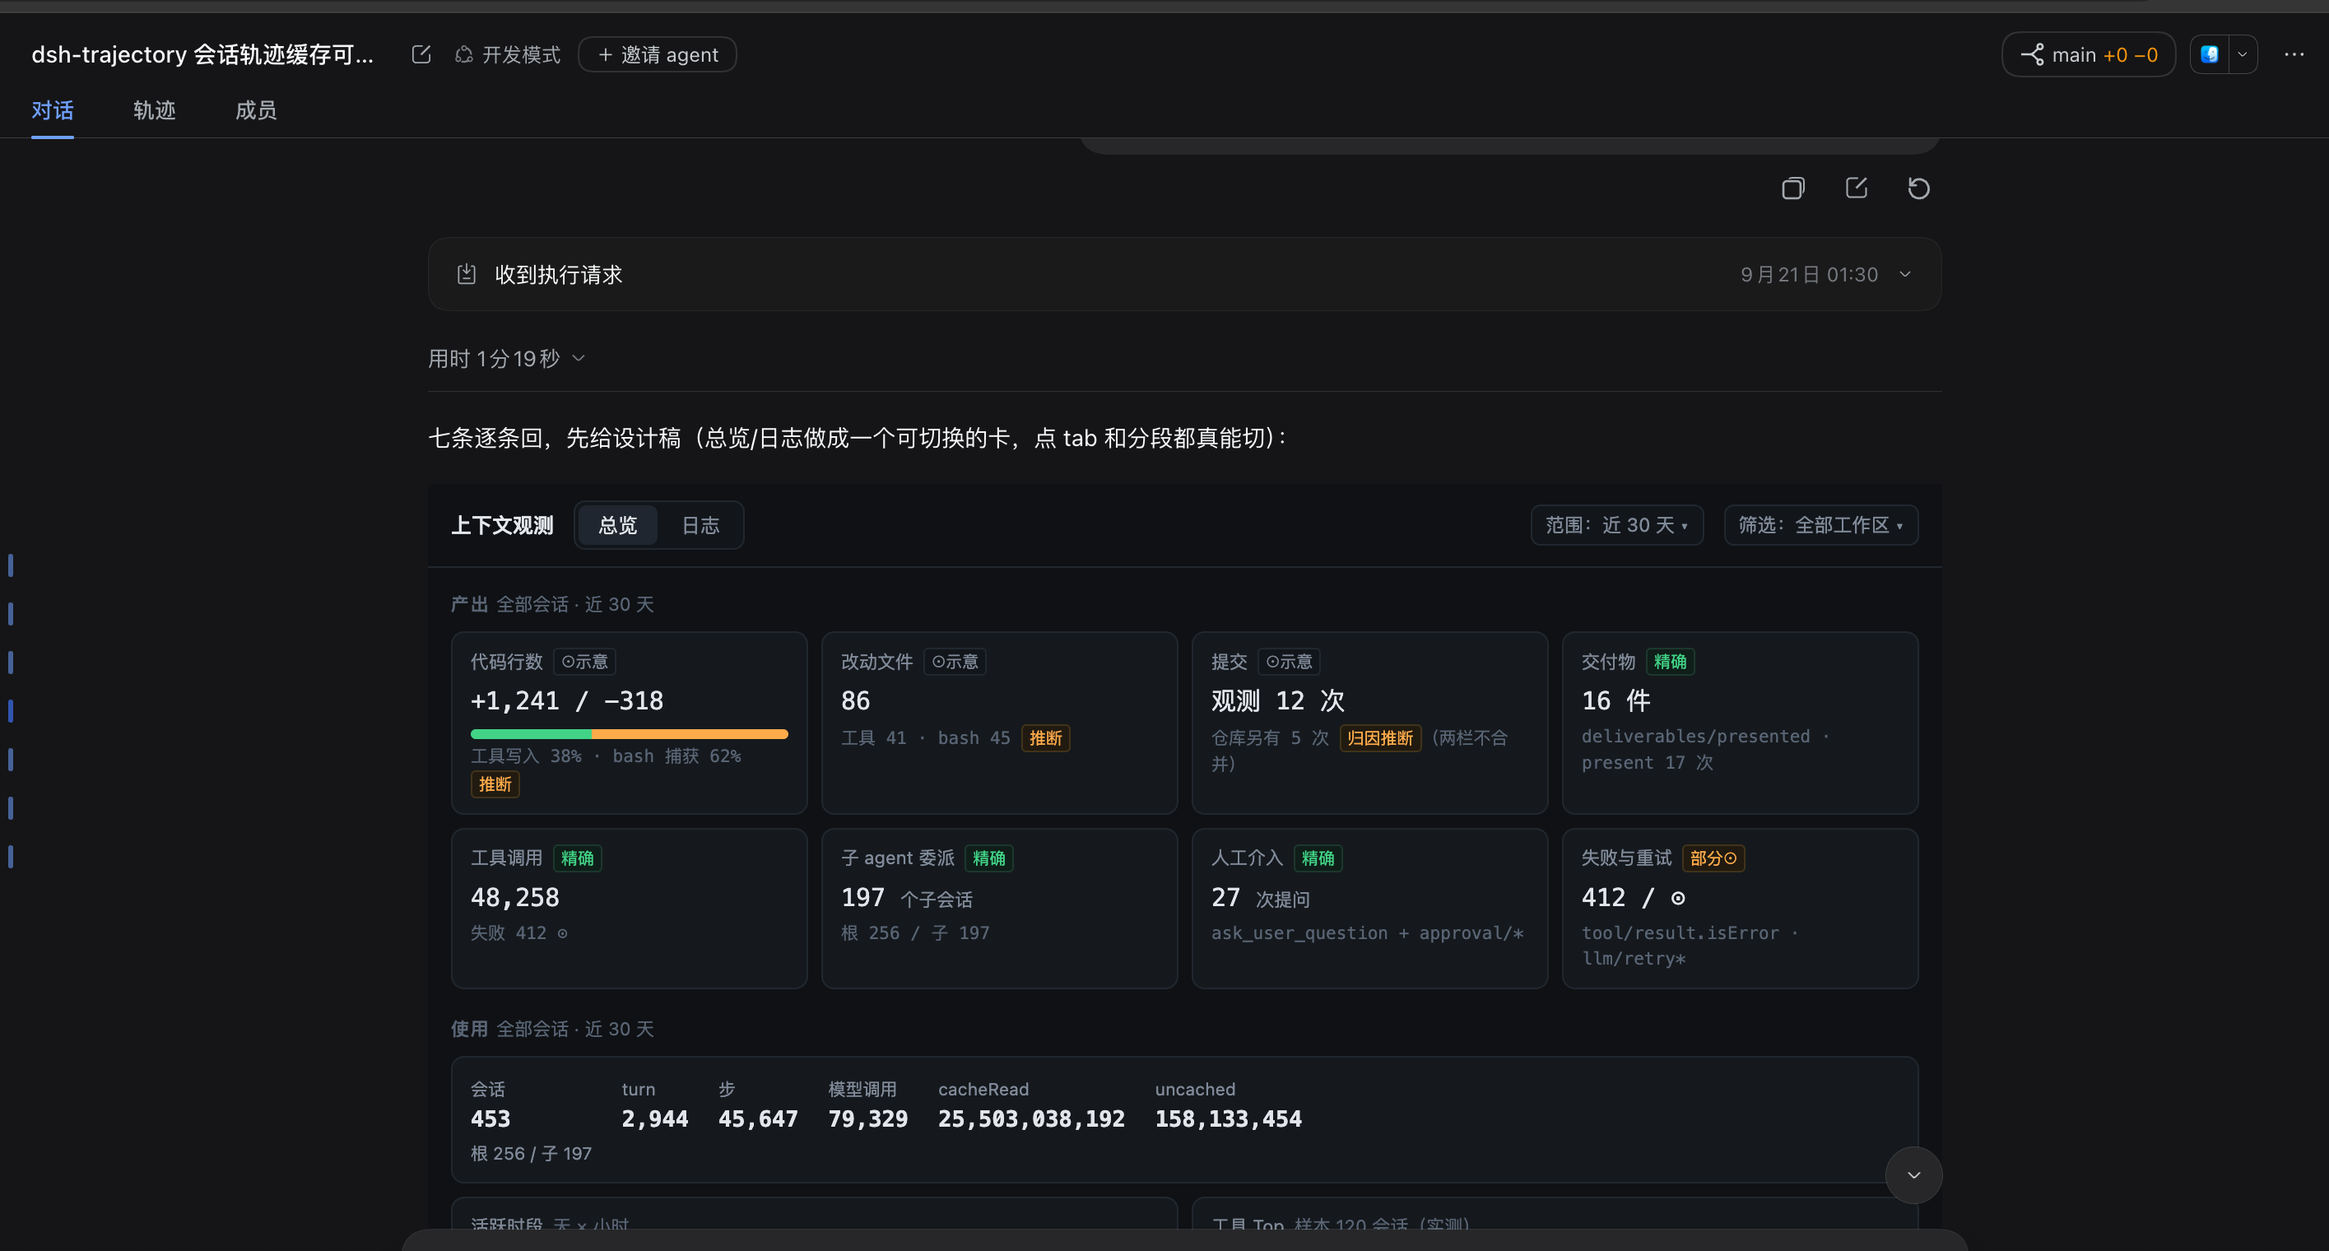
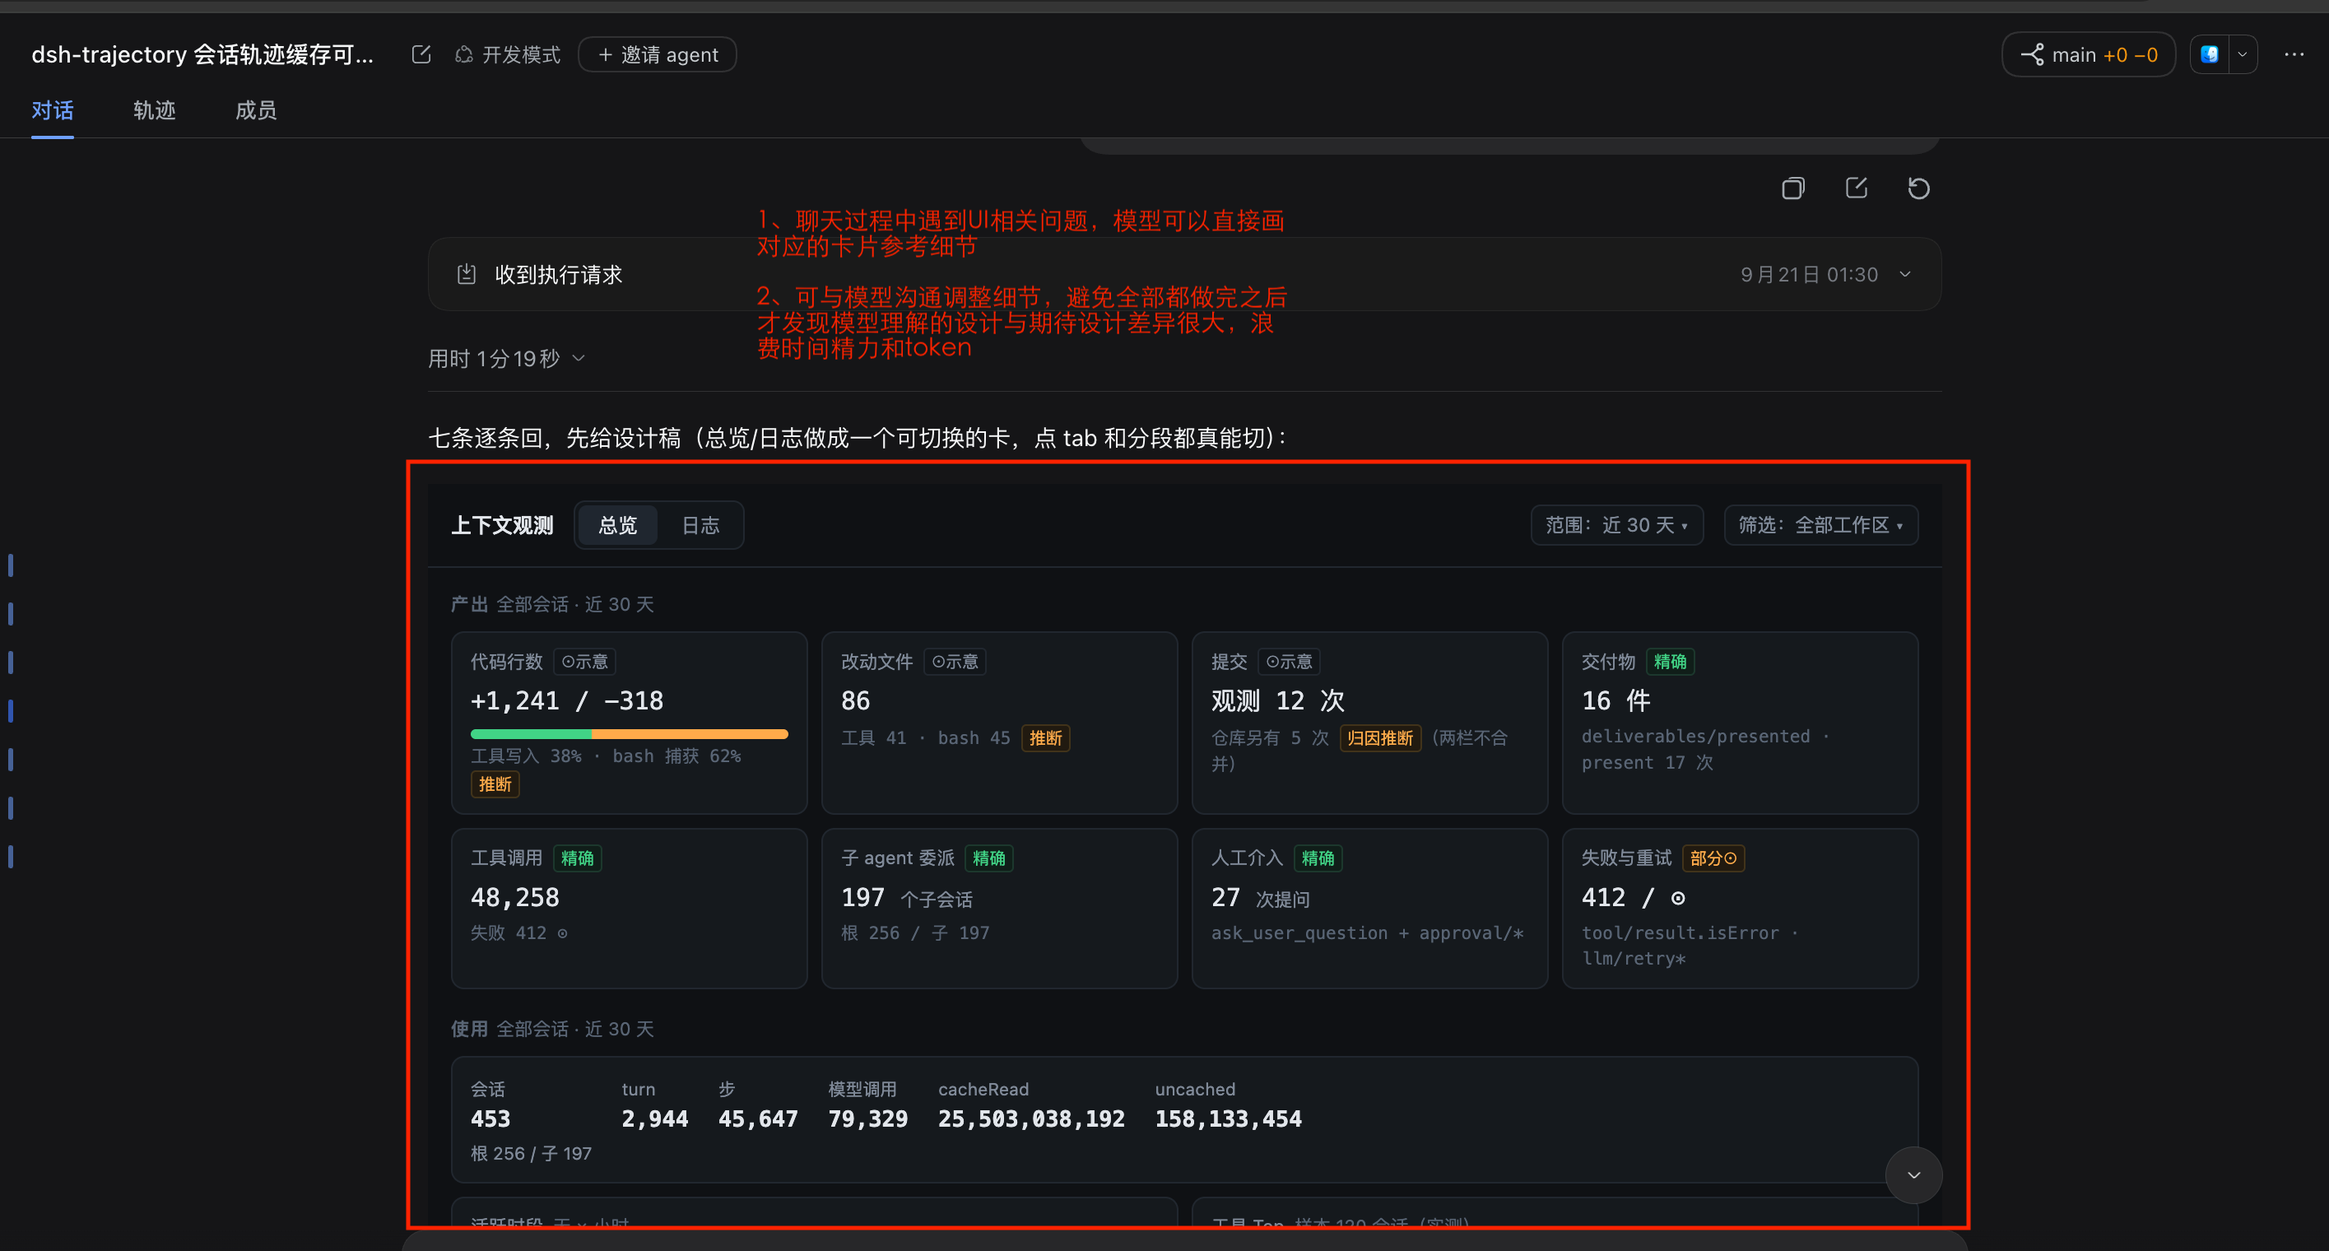
docs(basic): per-plugin compat tables, bundle-conversation-toolbox showcase, drop hero image; refreshed inline-html-render shot

Changed region(s): [[0.311, 0.1546, 0.5597, 0.3092], [0.1866, 0.9586, 0.8396, 0.9895], [0.1866, 0.3401, 0.8396, 0.3711]]

diff --git a/profiles/basic/README.en.md b/profiles/basic/README.en.md
@@ -4,9 +4,7 @@
 
 **A set of everyday, high-frequency experience plugins that make your DSH nicer — and freer.** Edit or withdraw messages you already sent; rename a session title in one click; background jobs at a glance and stoppable at will; a context-compaction reminder you configure yourself; mid-chat, have the agent sketch a preview card so you agree on the UI before it builds — no more rework loops; manage every skill and tool freely and assign them to different presets; a chime when a task completes; mobile access in a snap; safe restarts for plugin development — never again fear the little whale taking itself down…… The quality-of-life layer most users want first, installed in one go.
 
-<img src="docs/screenshots/file-preview1.png" width="840" alt="dsh-basic at a glance: the session Artifacts tab and the file-preview drawer">
-
-Every member is an independent plugin — copy its package name into the host's "Add plugin" dialog (0.1.7-rc.2+: Settings → Plugins) and install freely. If the official host later opens up custom-profile installation, this repo will support one-command install. The everyday conversation plugins also come as a meta package: `@khorsheed/dsh-bundle-conversation-toolbox` installs seven at once (message-tools / message-timeline / session-title-edit / quote / inline-html-render / context-guard / taskpilot).
+Every member is an independent plugin — copy its package name into the host's "Add plugin" dialog (0.1.7-rc.2+: Settings → Plugins) and install freely. If the official host later opens up custom-profile installation, this repo will support one-command install. The everyday conversation plugins also come as a meta package — `@khorsheed/dsh-bundle-conversation-toolbox` installs seven at once (see the end of [The tour](#the-tour)).
 
 ## The dsh-basic pack — plugin list
 
@@ -43,7 +41,11 @@ Members iterate fast and older release lines get no updates — pick the line by
 
 ### message-tools — edit, withdraw, restore
 
-`@khorsheed/dsh-client-message-tools` · host ≥ `0.1.5-rc.1` (older hosts: `@^0.2.0` on the 0.1.2 line, `@^0.1.0` on 0.1.x)
+| Host version | Install spec (copy into the dialog) |
+|---|---|
+| ≥ `0.1.5-rc.1` | `@khorsheed/dsh-client-message-tools` |
+| `0.1.2` ~ `0.1.4` | `@khorsheed/dsh-client-message-tools@^0.2.0` |
+| `0.1.x` | `@khorsheed/dsh-client-message-tools@^0.1.0` |
 
 Every user message carries a copy/edit/withdraw action row. Edits replace in place and re-send as a new message; a withdraw is real — the message and everything after it leaves the model's context, folding into an expandable divider with the original text refilled into your draft; one click restores them to the end of the conversation. No official package is touched.
 
@@ -64,7 +66,10 @@ Every user message carries a copy/edit/withdraw action row. Edits replace in pla
 
 ### message-timeline — history at a glance
 
-`@khorsheed/dsh-message-timeline` · host ≥ `0.1.2-rc.1` (`@^0.1.0` line on 0.1.x hosts)
+| Host version | Install spec (copy into the dialog) |
+|---|---|
+| ≥ `0.1.2-rc.1` | `@khorsheed/dsh-message-timeline` |
+| `0.1.x` | `@khorsheed/dsh-message-timeline@^0.1.0` |
 
 A floating timeline along the chat's left edge, one row per user message. At rest it is a thin rail out of sight; hover to expand a preview, click to scroll straight to that message. Follows your reading position and pages older history at the top. A pure read of the session snapshot — zero model impact.
 
@@ -79,7 +84,10 @@ A floating timeline along the chat's left edge, one row per user message. At res
 
 ### session-title-edit — rename inline
 
-`@khorsheed/dsh-client-session-title-edit` · host ≥ `0.1.2-rc.1` (`@^0.1.0` line on 0.1.x hosts)
+| Host version | Install spec (copy into the dialog) |
+|---|---|
+| ≥ `0.1.2-rc.1` | `@khorsheed/dsh-client-session-title-edit` |
+| `0.1.x` | `@khorsheed/dsh-client-session-title-edit@^0.1.0` |
 
 Click the pencil beside the title in the chat header and the title itself becomes an input — Enter saves, Escape cancels. A user-set title is pinned and never overwritten by auto-generation. Rides the official rename channel; the model never notices.
 
@@ -94,7 +102,10 @@ Click the pencil beside the title in the chat header and the title itself become
 
 ### quote — quote anything
 
-`@khorsheed/dsh-quote` · host ≥ `0.1.5-rc.1` (no release for older hosts)
+| Host version | Install spec (copy into the dialog) |
+|---|---|
+| ≥ `0.1.5-rc.1` | `@khorsheed/dsh-quote` |
+| earlier | no release available |
 
 Select any text and a floating action menu appears — quote into the current session (lands in the composer), quote into a side chat, or copy. Other plugins can register their own action rows into the same menu.
 
@@ -109,7 +120,11 @@ Select any text and a floating action menu appears — quote into the current se
 
 ### file-preview + ui-file-preview — session artifacts
 
-`@khorsheed/dsh-file-preview` + `@khorsheed/dsh-client-ui-file-preview` · host ≥ `0.1.5-rc.1` (older hosts: `@^0.2.0` on the 0.1.2 line, `@^0.1.0` on 0.1.x) · installed as a pair
+| Host version | Install specs (copy into the dialog; install the pair) |
+|---|---|
+| ≥ `0.1.5-rc.1` | `@khorsheed/dsh-file-preview` + `@khorsheed/dsh-client-ui-file-preview` |
+| `0.1.2` ~ `0.1.4` | `@khorsheed/dsh-file-preview@^0.2.0` + `@khorsheed/dsh-client-ui-file-preview@^0.2.0` |
+| `0.1.x` | `@khorsheed/dsh-file-preview@^0.1.0` + `@khorsheed/dsh-client-ui-file-preview@^0.1.0` |
 
 The Produced tab lists every file the session wrote or edited (most recent first); select one to preview its current content in-page, or step through every write/edit diff with content search.
 
@@ -126,7 +141,11 @@ The Produced tab lists every file the session wrote or edited (most recent first
 
 ### taskpilot — pills for background work
 
-`@khorsheed/dsh-taskpilot` · host ≥ `0.1.5-rc.1` (older hosts: `@^0.2.0` on the 0.1.2 line, `@^0.1.0` on 0.1.x)
+| Host version | Install spec (copy into the dialog) |
+|---|---|
+| ≥ `0.1.5-rc.1` | `@khorsheed/dsh-taskpilot` |
+| `0.1.2` ~ `0.1.4` | `@khorsheed/dsh-taskpilot@^0.2.0` |
+| `0.1.x` | `@khorsheed/dsh-taskpilot@^0.1.0` |
 
 Two pills above the composer — background jobs and sub-agents — each appearing only when there is something to show. Running jobs tick every second with a stop button; sub-agents show the full lineage with token cost and can be interrupted; click a row for the detail drawer with a replayed execution trace. All data comes from mirrors the product already keeps — zero model impact.
 
@@ -141,7 +160,10 @@ Two pills above the composer — background jobs and sub-agents — each appeari
 
 ### context-guard — compact before you run out
 
-`@khorsheed/dsh-context-guard` · host ≥ `0.1.2-rc.1` (`@^0.1.0` line on 0.1.x hosts)
+| Host version | Install spec (copy into the dialog) |
+|---|---|
+| ≥ `0.1.2-rc.1` | `@khorsheed/dsh-context-guard` |
+| `0.1.x` | `@khorsheed/dsh-context-guard@^0.1.0` |
 
 When context occupancy crosses your configured ratio, a compact button appears in the composer toolbar — one click runs the official /compact, before overflow starts rejecting requests. Tune the ratio to your taste (0.01–1); lower means earlier.
 
@@ -156,9 +178,12 @@ When context occupancy crosses your configured ratio, a compact button appears i
 
 ### inline-html-render — inline HTML cards
 
-`@khorsheed/dsh-inline-html-render` · host ≥ `0.1.2-rc.1` (no release for 0.1.x hosts)
+| Host version | Install spec (copy into the dialog) |
+|---|---|
+| ≥ `0.1.2-rc.1` | `@khorsheed/dsh-inline-html-render` |
+| earlier | no release available |
 
-A ```` ```dsh-card ```` HTML block in the agent's reply renders as a sandboxed interactive card right in the conversation — charts, little tools, and visualizations you can play with instead of copying elsewhere. Sandboxed and isolated; animations settle down under `prefers-reduced-motion`.
+A ```` ```dsh-card ```` HTML block in the agent's reply renders as a sandboxed interactive card right in the conversation — sketch the UI first, agree on the details, then build it, instead of discovering the mismatch after everything is done. Sandboxed and isolated; animations settle down under `prefers-reduced-motion`.
 
 <details>
 <summary>View the screenshots (1)</summary>
@@ -169,7 +194,10 @@ A ```` ```dsh-card ```` HTML block in the agent's reply renders as a sandboxed i
 
 ### capability-catalog — the capability catalog
 
-`@khorsheed/dsh-capability-catalog` · host ≥ `0.1.5-rc.1` (no release for older hosts)
+| Host version | Install spec (copy into the dialog) |
+|---|---|
+| ≥ `0.1.5-rc.1` | `@khorsheed/dsh-capability-catalog` |
+| earlier | no release available |
 
 A new Tools & Skills entry in settings: every skill and tool in the running instance, each labeled with its registration channel (official built-in / project / user / plugin); a three-column card grid, a detail modal with the full SKILL.md, metadata and credential config, and an add-skill modal that installs from an uploaded zip or a pasted SKILL.md.
 
@@ -186,7 +214,10 @@ A new Tools & Skills entry in settings: every skill and tool in the running inst
 
 ### ui-shortcuts — rebindable keys
 
-`@khorsheed/dsh-ui-shortcuts` · host ≥ `0.1.2-rc.1` (`@^0.1.0` line on 0.1.x hosts)
+| Host version | Install spec (copy into the dialog) |
+|---|---|
+| ≥ `0.1.2-rc.1` | `@khorsheed/dsh-ui-shortcuts` |
+| `0.1.x` | `@khorsheed/dsh-ui-shortcuts@^0.1.0` |
 
 Esc pauses the current task, Ctrl/Cmd+S steer-sends your draft, Ctrl/Cmd+O starts a new session. Click a keycap in settings to rebind; preferences persist. It also ships an action registry: any plugin can register its own keyboard action and gets a settings entry plus conflict-free dispatch for free.
 
@@ -199,7 +230,10 @@ Esc pauses the current task, Ctrl/Cmd+S steer-sends your draft, Ctrl/Cmd+O start
 
 ### whalesong — ambient status
 
-`@khorsheed/dsh-whalesong` · host ≥ `0.1.2-rc.1` (`@^0.1.0` line on 0.1.x hosts)
+| Host version | Install spec (copy into the dialog) |
+|---|---|
+| ≥ `0.1.2-rc.1` | `@khorsheed/dsh-whalesong` |
+| `0.1.x` | `@khorsheed/dsh-whalesong@^0.1.0` |
 
 While any session runs, the sidebar whale spouts and the tab icon moves; when a run finishes or stalls waiting for you, a short chime plays (synthesized WebAudio, silenced under `prefers-reduced-motion`). Read-only over the session list, zero model impact — install it and the page feels alive.
 
@@ -214,7 +248,10 @@ While any session runs, the sidebar whale spouts and the tab icon moves; when a 
 
 ### mobile — mobile presentation
 
-`@khorsheed/dsh-mobile` · host ≥ `0.1.5-rc.1` (no release for older hosts)
+| Host version | Install spec (copy into the dialog) |
+|---|---|
+| ≥ `0.1.5-rc.1` | `@khorsheed/dsh-mobile` |
+| earlier | no release available |
 
 A mobile presentation of the web UI for phone browsers, plus the iOS bridge — check sessions, send messages, and handle approvals away from your desk.
 
@@ -229,7 +266,11 @@ A mobile presentation of the web UI for phone browsers, plus the iOS bridge — 
 
 ### ankh-guard — ops guard
 
-`@khorsheed/dsh-ankh-guard` · host ≥ `0.1.5-rc.1` (older hosts: `@^0.2.0` on the 0.1.2 line, `@^0.1.0` on 0.1.x)
+| Host version | Install spec (copy into the dialog) |
+|---|---|
+| ≥ `0.1.5-rc.1` | `@khorsheed/dsh-ankh-guard` |
+| `0.1.2` ~ `0.1.4` | `@khorsheed/dsh-ankh-guard@^0.2.0` |
+| `0.1.x` | `@khorsheed/dsh-ankh-guard@^0.1.0` |
 
 Let the agent change its own code and restart its own service without taking it down: restarts require a green build+test credential (bound to the git HEAD, time-boxed) and are refused without one; after the restart a canary reactivates the session to keep verifying; repeated boot failures roll back to the last known-good version. A must for self-hosted, AI-driven setups.
 
@@ -240,13 +281,29 @@ Let the agent change its own code and restart its own service without taking it 
 
 </details>
 
+### Bundle install: bundle-conversation-toolbox (the seven-piece conversation toolbox)
+
+| Host version | Install spec (copy into the dialog) |
+|---|---|
+| ≥ `0.1.5-rc.1` | `@khorsheed/dsh-bundle-conversation-toolbox` |
+| earlier | no release available (install members individually per the tables above) |
+
+Don't want to pick one by one? This single meta package installs the seven conversation tools at once: message-tools, message-timeline, session-title-edit, quote, inline-html-render, context-guard, taskpilot. Members arrive as npm dependencies, and the bundle's patch re-mounts each member's canonical rows verbatim; afterwards every component stays individually disable-able under Settings → Plugins — the bundle packages the install, not your choices.
+
+<details>
+<summary>View the screenshots (1)</summary>
+
+<img src="docs/screenshots/bundle-conversation-toolbox.png" width="840" alt="bundle-conversation-toolbox: the detail page listing seven components, each individually switchable">
+
+</details>
+
 ## Make it yours
 
 - **Remove a member**: disable/uninstall in Settings → Plugins, or `dsh plugin --profile <your profile> remove <package name>` — the rest keep working. The bundle is a starting point, not a lock-in.
 - **Add more**: any `@khorsheed/dsh-*` plugin installs the same way — copy the package name.
 - **Update**: from Settings → Plugins, or `dsh plugin --profile <your profile> update` to pull the newest versions in range.
 
-## Related packs
+## Other packs
 
 | Pack | What it is |
 |---|---|

diff --git a/packages/bundle-conversation-toolbox/README.en.md b/packages/bundle-conversation-toolbox/README.en.md
@@ -6,6 +6,8 @@ One command, seven session-experience plugins installed — message edit/withdra
 
 Each member installs fine on its own — but then the plugin list scatters them across seven cards. This family bundle folds their canonical rows into one "Conversation Toolbox" card: a single `dsh plugin add` installs the whole family, and the plugin list manages them as one card. A thin meta package — a patch inserting the members' canonical rows, npm dependencies that bring the members along, and locale card metadata — with **no runtime code and no client half of its own** (pure composition: it registers no service, tool, slot, or command).
 
+<img src="https://raw.githubusercontent.com/Khorsheed/dsh-basic/main/docs/screenshots/bundle-conversation-toolbox.png" width="640" alt="the bundle detail page: seven components listed row by row, each individually switchable">
+
 ## Features
 
 - **One command installs all seven** — every member is an npm `dependency`, so installing this bundle brings the whole family along; no per-package installs.

diff --git a/packages/bundle-conversation-toolbox/README.md b/packages/bundle-conversation-toolbox/README.md
@@ -6,6 +6,8 @@
 
 七个成员各自单装也完全成立,但插件清单里会散成七张卡。这个家族 bundle 把它们的规范行收成一张「会话工具箱」卡:一次 `dsh plugin add` 装齐整个家族,清单里按一张卡管理。薄元包——patch 插成员规范行 + npm 依赖带齐成员 + locale 卡面元数据,**自身零运行时代码、零客户端面**(纯组合:不注册任何服务/工具/槽位/命令)。
 
+<img src="https://raw.githubusercontent.com/Khorsheed/dsh-basic/main/docs/screenshots/bundle-conversation-toolbox.png" width="640" alt="bundle 详情页:七个组件逐行显示、各自可独立开关">
+
 ## 特性
 
 - **一条命令装齐**——七个成员全部列进 `dependencies`,装本 bundle 即带齐整个家族,不用逐包安装。

diff --git a/profiles/basic/CHANGELOG.md b/profiles/basic/CHANGELOG.md
@@ -1,5 +1,11 @@
 # 变更记录
 
+## 2026-09-27 —— 元包展示与兼容表格化
+
+- 功能展示末尾新增「打包装：bundle-conversation-toolbox」一节（含详情页截图）：七件会话工具一次装齐，组件行仍可单独禁用
+- 每个成员的兼容信息改为「宿主版本 × 安装规格」小表格，完整规格直接可复制
+- 移除首屏总览图（一张图代表不了全部成员）
+
 ## 2026-09-27 —— quote 加入，成员 14 个
 
 - 新成员：quote（选中任意文本浮出引用动作菜单）——成员数 13 → 14
